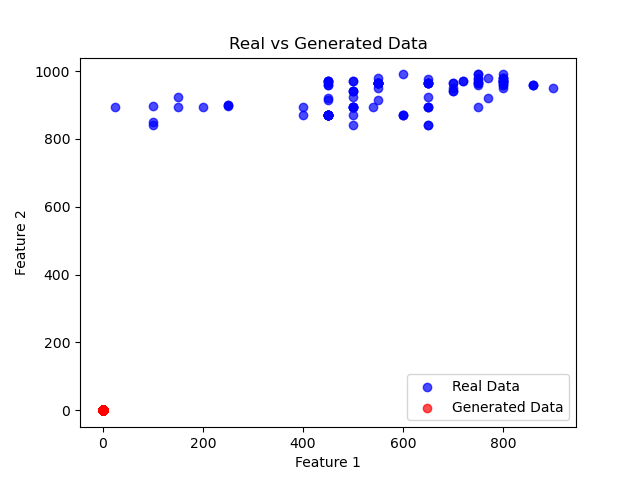
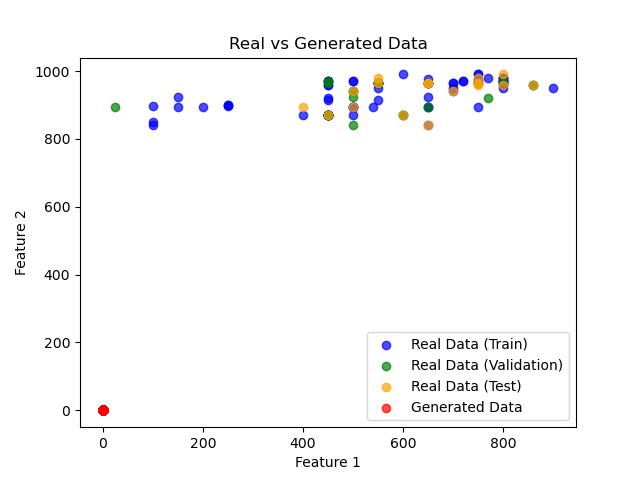
update main.py
Split the data into training, validation, and test sets

diff --git a/main.py b/main.py
@@ -1,63 +1,75 @@
-import matplotlib.pyplot as plt
-import pandas as pd
+import os
 import torch
 import torch.nn as nn
 import torch.optim as optim
 from torch.utils.data import Dataset, DataLoader
+from sklearn.model_selection import train_test_split
+import pandas as pd
+import numpy as np
+import matplotlib.pyplot as plt
+
+# Delete all PNG files in the current directory
+for file in os.listdir():
+    if file.endswith(".png"):
+        os.remove(file)
 
 # Load CSV data
 data = pd.read_csv("GaN_Temp_Crystal.csv").values
 
+# Split the data into features (X) and labels (y)
+X = data[:, :-1]  # Features
+y = data[:, -1]   # Labels
+
+# Split the data into training, validation, and test sets
+X_train, X_temp, y_train, y_temp = train_test_split(X, y, test_size=0.3, random_state=42)
+X_val, X_test, y_val, y_test = train_test_split(X_temp, y_temp, test_size=0.5, random_state=42)
 
 # Define a custom dataset class
 class CustomDataset(Dataset):
-	def __init__(self, data):
-		self.data = torch.FloatTensor(data)
+    def __init__(self, data):
+        self.data = torch.FloatTensor(data)
 
-	def __len__(self):
-		return len(self.data)
+    def __len__(self):
+        return len(self.data)
 
-	def __getitem__(self, idx):
-		return self.data[idx]
-
+    def __getitem__(self, idx):
+        return self.data[idx]
 
 # Generator network
 class Generator(nn.Module):
-	def __init__(self, input_size, output_size):
-		super(Generator, self).__init__()
-		self.model = nn.Sequential(
-			nn.Linear(input_size, 64),
-			nn.ReLU(),
-			nn.Linear(64, 32),
-			nn.ReLU(),
-			nn.Linear(32, output_size),
-			nn.Tanh()
-		)
+    def __init__(self, input_size, output_size):
+        super(Generator, self).__init__()
+        self.model = nn.Sequential(
+            nn.Linear(input_size, 64),
+            nn.ReLU(),
+            nn.Linear(64, 32),
+            nn.ReLU(),
+            nn.Linear(32, output_size),
+            nn.Tanh()
+        )
 
-	def forward(self, x):
-		return self.model(x)
-
+    def forward(self, x):
+        return self.model(x)
 
 # Discriminator network
 class Discriminator(nn.Module):
-	def __init__(self, input_size):
-		super(Discriminator, self).__init__()
-		self.model = nn.Sequential(
-			nn.Linear(input_size, 32),
-			nn.ReLU(),
-			nn.Linear(32, 16),
-			nn.ReLU(),
-			nn.Linear(16, 1),
-			nn.Sigmoid()
-		)
+    def __init__(self, input_size):
+        super(Discriminator, self).__init__()
+        self.model = nn.Sequential(
+            nn.Linear(input_size, 32),
+            nn.ReLU(),
+            nn.Linear(32, 16),
+            nn.ReLU(),
+            nn.Linear(16, 1),
+            nn.Sigmoid()
+        )
 
-	def forward(self, x):
-		return self.model(x)
-
+    def forward(self, x):
+        return self.model(x)
 
 # Hyperparameters
-input_size = data.shape[1]
-latent_size = 100
+input_size = X_train.shape[1]
+latent_size = 10
 output_size = input_size
 lr = 0.0002
 batch_size = 64
@@ -72,51 +84,52 @@ criterion = nn.BCELoss()
 
 # Training loop
 for epoch in range(epochs):
-	for real_data in DataLoader(CustomDataset(data), batch_size=batch_size, shuffle=True):
-		# Train discriminator
-		optimizer_D.zero_grad()
-		real_labels = torch.ones(real_data.size(0), 1)
-		fake_labels = torch.zeros(real_data.size(0), 1)
+    for real_data in DataLoader(CustomDataset(X_train), batch_size=batch_size, shuffle=True):
+        # Train discriminator
+        optimizer_D.zero_grad()
+        real_labels = torch.ones(real_data.size(0), 1)
+        fake_labels = torch.zeros(real_data.size(0), 1)
 
-		real_output = discriminator(real_data)
-		real_loss = criterion(real_output, real_labels)
-		real_loss.backward()
+        real_output = discriminator(real_data)
+        real_loss = criterion(real_output, real_labels)
+        real_loss.backward()
 
-		noise = torch.randn(real_data.size(0), latent_size)
-		fake_data = generator(noise)
-		fake_output = discriminator(fake_data.detach())
-		fake_loss = criterion(fake_output, fake_labels)
-		fake_loss.backward()
+        noise = torch.randn(real_data.size(0), latent_size)
+        fake_data = generator(noise)
+        fake_output = discriminator(fake_data.detach())
+        fake_loss = criterion(fake_output, fake_labels)
+        fake_loss.backward()
 
-		optimizer_D.step()
+        optimizer_D.step()
 
-		# Train generator
-		optimizer_G.zero_grad()
-		fake_output = discriminator(fake_data)
-		generator_loss = criterion(fake_output, real_labels)
-		generator_loss.backward()
-		optimizer_G.step()
+        # Train generator
+        optimizer_G.zero_grad()
+        fake_output = discriminator(fake_data)
+        generator_loss = criterion(fake_output, real_labels)
+        generator_loss.backward()
+        optimizer_G.step()
 
-	# Print progress
-	if epoch % 100 == 0:
-		print(
-			f"Epoch [{epoch}/{epochs}], Generator Loss: {generator_loss.item()}, Discriminator Loss: {real_loss.item() + fake_loss.item()}")
+    # Print progress
+    if epoch % 100 == 0:
+        print(f"Epoch [{epoch}/{epochs}], Generator Loss: {generator_loss.item()}, Discriminator Loss: {real_loss.item() + fake_loss.item()}")
 
-	# Generate synthetic data and plot
-	if epoch % 500 == 0:
-		num_samples = 1000
-		noise = torch.randn(num_samples, latent_size)
-		generated_data = generator(noise).detach().numpy()
+    # Generate synthetic data and plot
+    if epoch % 500 == 0:
+        num_samples = 1000
+        noise = torch.randn(num_samples, latent_size)
+        generated_data = generator(noise).detach().numpy()
 
-		# Plot the real and generated data
-		plt.scatter(data[:, 0], data[:, 1], color='blue', label='Real Data', alpha=0.7)
-		plt.scatter(generated_data[:, 0], generated_data[:, 1], color='red', label='Generated Data', alpha=0.7)
+        # Plot the real and generated data
+        plt.scatter(X_train[:, 0], X_train[:, 1], color='blue', label='Real Data (Train)', alpha=0.7)
+        plt.scatter(X_val[:, 0], X_val[:, 1], color='green', label='Real Data (Validation)', alpha=0.7)
+        plt.scatter(X_test[:, 0], X_test[:, 1], color='orange', label='Real Data (Test)', alpha=0.7)
+        plt.scatter(generated_data[:, 0], generated_data[:, 1], color='red', label='Generated Data', alpha=0.7)
 
-		plt.title('Real vs Generated Data')
-		plt.xlabel('Feature 1')
-		plt.ylabel('Feature 2')
-		plt.legend()
+        plt.title('Real vs Generated Data')
+        plt.xlabel('Feature 1')
+        plt.ylabel('Feature 2')
+        plt.legend()
 
-		# Save the plot as an image
-		plt.savefig(f'epoch_{epoch}_plot.png')
-		plt.show()
+        # Save the plot as an image
+        plt.savefig(f'epoch_{epoch}_plot.png')
+        plt.show()
